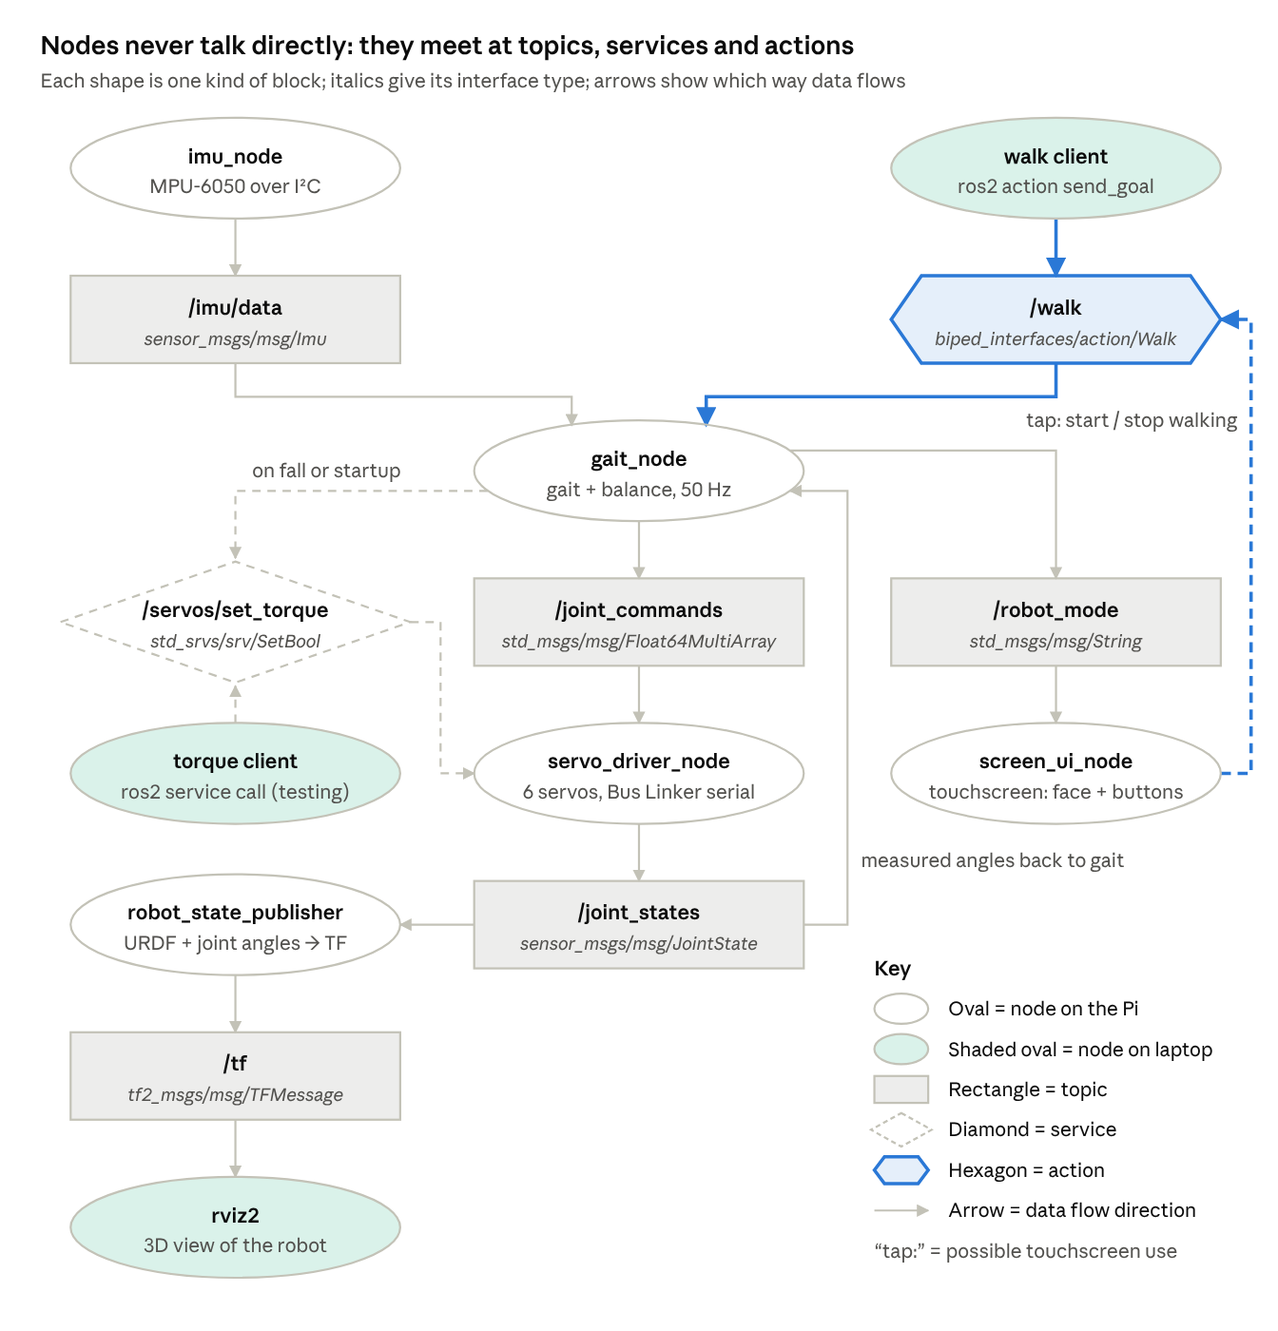
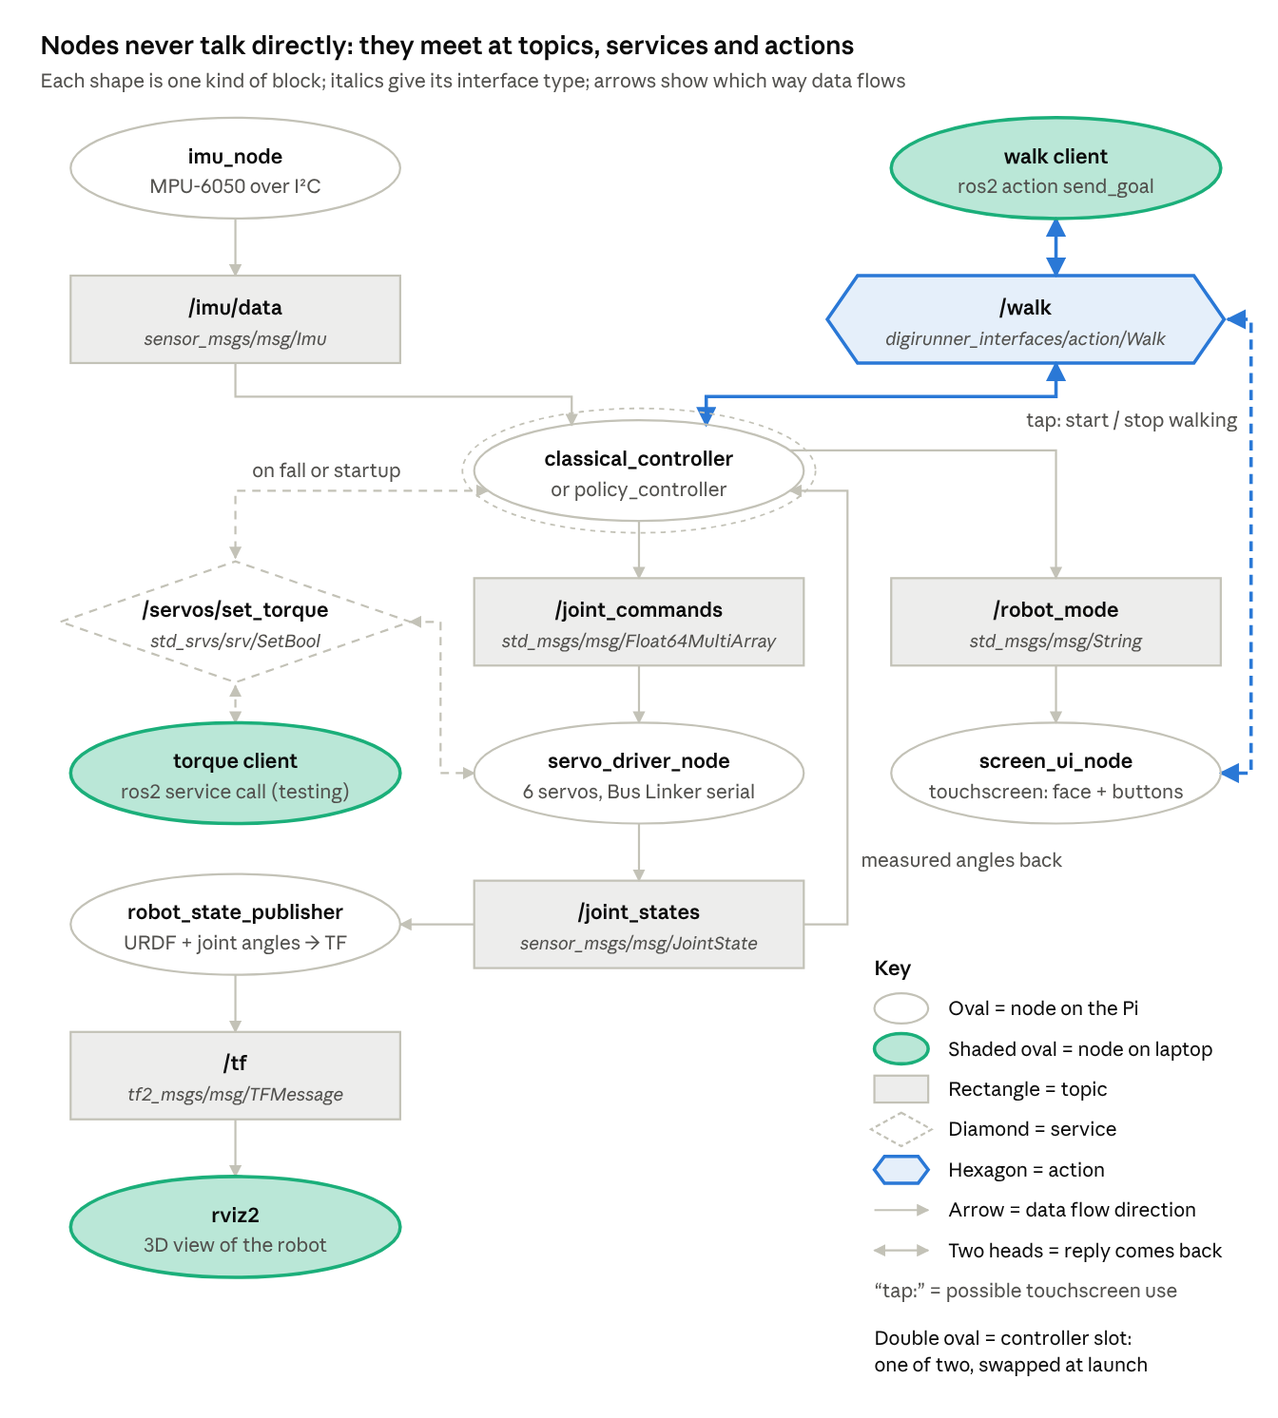
Updated Packages Layout

diff --git a/docs/ros2-concepts.md b/docs/ros2-concepts.md
@@ -1,20 +1,23 @@
-# ROS 2 Concepts for the Bipedal Robot
+# ROS 2 Concepts for Digi-Runner
 
-Nov 12, 2026
+Nov 12, 2026 · Maximilian Shah
 
 These are the ROS 2 pieces a small bipedal robot actually uses. Each entry says what it is, why it matters, and how it would be used on this robot, plus the basic `ros2` CLI commands where the CLI is the simple way in.
 
-**Hardware assumed in the examples:** Raspberry Pi 4B, bus servos driven through the Bus Linker (serial), a GY-521 (MPU-6050) IMU on I²C, and the 5" DSI screen.
+**Hardware assumed in the examples:** Raspberry Pi 4B, bus servos driven through the Bus Linker (serial), a GY-521 (MPU-6050) IMU on I²C, and the 5" Touchscreen IPS LCD Display.
 
-**Commands assume** ROS 2 Jazzy (the LTS release for Ubuntu 24.04, which runs on the Pi 4). Most also work on Humble. Names in angle brackets or under `biped_*` are placeholders for your own packages and nodes. Before any command will find your code, source the workspace with `source ~/biped_ws/install/setup.bash`.
+**Commands assume** ROS 2 Jazzy (the LTS release for Ubuntu 24.04, which runs on the Pi 4). Most also work on Humble. Names in angle brackets or under `digirunner_*` are placeholders for your own packages and nodes. Before any command will find your code, source the workspace with `source ~/ros2_ws/install/setup.bash`.
 
 ## Core building blocks
 
 Nodes talking over topics, services and actions are the skeleton of every ROS 2 robot. Everything else in this doc builds on them.
 
-![Example node graph for the robot](images/node-graph.png)
+<picture>
+  <source media="(prefers-color-scheme: dark)" srcset="images/node-graph-dark.png">
+  <img alt="Example node graph for the robot" src="images/node-graph.png">
+</picture>
 
-Ovals are nodes (shaded ones run on the laptop), rectangles are topics, the diamond is a service and the hexagon is an action. Each block holds its interface type, and arrows show which way data flows. The node and topic names are the examples used throughout this doc; `rqt_graph` draws the live version of this picture for your real system. The touchscreen only talks to /walk: its Stop button cancels the walk goal, so the robot stands still instead of collapsing. A hard e-stop (torque off) comes from a physical power switch or a ros2 service call from the laptop, so it still works if the gait node has crashed. The gait node can also cut torque itself when it detects a fall.
+Ovals are nodes (shaded ones run on the laptop), rectangles are topics, the diamond is a service and the hexagon is an action. Each block holds its interface type, and arrows show which way data flows. The node and topic names are the examples used throughout this doc; `rqt_graph` draws the live version of this picture for your real system. The touchscreen only talks to /walk: its Stop button cancels the walk goal, so the robot stands still instead of collapsing. A hard e-stop (torque off) comes from a physical power switch or a ros2 service call from the laptop, so it still works if the gait node has crashed. The gait node can also cut torque itself when it detects a fall. The double oval is the controller slot: either classical_controller or policy_controller fills it (see Packages), and the rest of this doc calls whichever one is running gait_node.
 
 ### Nodes
 
@@ -25,7 +28,7 @@ Ovals are nodes (shaded ones run on the laptop), rectangles are topics, the diam
 **Example:** `imu_node` reads the MPU-6050 over I²C. `servo_driver_node` talks to the Bus Linker over serial. `gait_node` generates walking motions, and `screen_ui_node` runs the touchscreen: it draws the face and turns taps into /walk requests, like start and stop.
 
 ```bash
-ros2 run biped_hardware imu_node      # start a node: ros2 run <package> <executable>
+ros2 run digirunner_hardware imu_node      # start a node: ros2 run <package> <executable>
 ros2 node list                        # see every running node
 ros2 node info /imu_node              # its publishers, subscribers, services, actions
 ```
@@ -78,7 +81,7 @@ ros2 interface package std_srvs              # types in one package
 ros2 interface proto sensor_msgs/msg/JointState   # a fill-in-the-blanks template for ros2 topic pub
 ```
 
-Custom interfaces aren't made from the CLI. Put them in their own CMake package (`ros2 pkg create --build-type ament_cmake biped_interfaces`), add files like `msg/ServoStatus.msg`, and list them in `rosidl_generate_interfaces(...)` in that package's `CMakeLists.txt`.
+Custom interfaces aren't made from the CLI. Put them in their own CMake package (`ros2 pkg create --build-type ament_cmake --license MIT digirunner_interfaces`), add files like `msg/ServoStatus.msg`, and list them in `rosidl_generate_interfaces(...)` in that package's `CMakeLists.txt`.
 
 ### Services
 
@@ -105,11 +108,14 @@ ros2 service call /servos/set_torque std_srvs/srv/SetBool "{data: false}"   # go
 ```bash
 ros2 action list -t
 ros2 action info /walk                        # its server and clients
-ros2 action send_goal /walk biped_interfaces/action/Walk "{steps: 10}" --feedback
+ros2 action send_goal /walk digirunner_interfaces/action/Walk "{steps: 10}" --feedback
 # Ctrl+C while a goal is running cancels it
 ```
 
-![Topic vs service vs action message timing](images/topic-service-action.png)
+<picture>
+  <source media="(prefers-color-scheme: dark)" srcset="images/topic-service-action-dark.png">
+  <img alt="Topic vs service vs action message timing" src="images/topic-service-action.png">
+</picture>
 
 Time runs downward. A service caller waits for its one reply, while an action client keeps receiving feedback until the result arrives, and can cancel along the way.
 
@@ -126,8 +132,8 @@ ros2 param list /gait_node
 ros2 param get /gait_node step_height
 ros2 param set /gait_node step_height 0.02          # change it live
 ros2 param dump /gait_node > gait_params.yaml       # save the current values to a file
-ros2 run biped_control gait_node --ros-args --params-file gait_params.yaml
-ros2 run biped_control gait_node --ros-args -p step_height:=0.02   # set one at launch
+ros2 run digirunner_control gait_node --ros-args --params-file gait_params.yaml
+ros2 run digirunner_control gait_node --ros-args -p step_height:=0.02   # set one at launch
 ```
 
 ### Timers, callbacks and executors
@@ -165,36 +171,88 @@ Your code lives in packages inside a workspace, gets built with colcon, and runs
 
 **Why:** Packages keep the project modular and let the build system resolve dependencies.
 
-**Example:** A sensible split for this robot:
+**Example:** This robot uses seven packages, split by what depends on what rather than one per node. Topics, services and actions don't get packages; only the custom interface types do.
 
-- `biped_description`: URDF and meshes
-- `biped_hardware`: servo and IMU drivers
-- `biped_control`: gait and balance
-- `biped_interfaces`: custom messages, services and actions (must be a CMake package)
-- `biped_bringup`: launch files and parameter YAMLs
+```text
+ros2_ws/src/
+├── digirunner_interfaces/   (CMake)          Walk.action, ServoStatus.msg
+├── digirunner_description/  (CMake)          URDF, SolidWorks meshes, RViz config
+├── digirunner_hardware/     (C++)            imu_node, servo_driver_node
+├── digirunner_control/      (C++)            classical_controller
+├── digirunner_policy/       (C++ or Python)  policy_controller + exported .onnx model
+├── digirunner_ui/           (Python)         screen_ui_node
+└── digirunner_bringup/      (Python)         launch files, parameter YAMLs
+```
+
+| Package | Language | Holds | Why it's separate |
+| --- | --- | --- | --- |
+| `digirunner_interfaces` | CMake (no code) | `Walk.action`, `ServoStatus.msg` | Every other package depends on it; the build generates both C++ and Python versions of each type |
+| `digirunner_description` | CMake (no code) | URDF/xacro, meshes, RViz config | The robot, the simulator and the laptop all load it; only changes when the CAD changes |
+| `digirunner_hardware` | C++ | `imu_node`, `servo_driver_node` | Byte-level serial and I²C work, close to C; only runs on the Pi; steady timing matters most here |
+| `digirunner_control` | C++ | `classical_controller` | Your hand-designed control; C++ is the industry standard for real-time control |
+| `digirunner_policy` | C++ or Python | `policy_controller`, the trained `.onnx` model | Needs a neural-net runtime (ONNX Runtime) nothing else uses |
+| `digirunner_ui` | Python | `screen_ui_node` | Needs a GUI library (pygame) nothing else uses; GUI code gains nothing from C++ |
+| `digirunner_bringup` | Python | Launch files, parameter YAMLs | Ties everything together; tuning never touches node code |
+
+**One controller slot, two controllers.** `classical_controller` and `policy_controller` follow the same contract: `/imu/data` and `/joint_states` in, `/joint_commands` out. Only one runs at a time, chosen by a launch argument, and nothing else in the system changes. That lets you compare your own control design against the learned one on the same robot.
 
 ```bash
-cd ~/biped_ws/src
-ros2 pkg create --build-type ament_python --dependencies rclpy sensor_msgs \
-    --node-name imu_node biped_hardware        # new Python package with a starter node
-ros2 pkg list                                   # installed packages
-ros2 pkg executables biped_hardware             # runnable nodes in a package
-ros2 pkg prefix biped_hardware                  # where it's installed
+ros2 launch digirunner_bringup robot.launch.py controller:=classical
+ros2 launch digirunner_bringup robot.launch.py controller:=policy
 ```
+
+**Training lives outside the workspace.** The neural net is trained in Python (PyTorch) in a simulator such as MuJoCo, usually over millions of attempts, then exported to ONNX and copied into `digirunner_policy`. Accurate masses and inertias from the SolidWorks export make the simulated robot match the real one, so the policy transfers better.
+
+**Nodes you don't write.** `robot_state_publisher`, `rviz2` and the `ros2` CLI come with ROS (`sudo apt install ros-jazzy-robot-state-publisher`). List them as dependencies in `digirunner_bringup/package.xml`; they don't live in your workspace.
+
+**What goes where.** The Pi builds every package. The laptop only needs `digirunner_interfaces`, `digirunner_description` and `digirunner_bringup` (RViz needs the model, and the CLI needs the `Walk` type), plus the training code.
+
+**License.** Every package uses the **MIT** license: a `LICENSE` file at the repo root, and `<license>MIT</license>` in each `package.xml` (the `--license MIT` flag below fills that in). Using one license everywhere means there's never a question about what applies where.
+
+```bash
+cd ~/ros2_ws/src
+ros2 pkg create digirunner_interfaces --build-type ament_cmake --license MIT --dependencies std_msgs action_msgs
+ros2 pkg create digirunner_description --build-type ament_cmake --license MIT
+ros2 pkg create digirunner_hardware --build-type ament_cmake --license MIT --dependencies rclcpp rclcpp_lifecycle sensor_msgs std_msgs std_srvs digirunner_interfaces
+ros2 pkg create digirunner_control --build-type ament_cmake --license MIT --dependencies rclcpp rclcpp_action sensor_msgs std_msgs std_srvs digirunner_interfaces
+ros2 pkg create digirunner_policy --build-type ament_cmake --license MIT --dependencies rclcpp rclcpp_action sensor_msgs std_msgs std_srvs digirunner_interfaces
+ros2 pkg create digirunner_ui --build-type ament_python --license MIT --dependencies rclpy std_msgs digirunner_interfaces
+ros2 pkg create digirunner_bringup --build-type ament_python --license MIT --dependencies launch launch_ros robot_state_publisher xacro
+cd .. && colcon build --symlink-install       # builds digirunner_interfaces first automatically
+source install/setup.bash                      # makes the new packages visible in this terminal
+ros2 pkg list | grep digirunner                # check all seven are found
+ros2 pkg executables digirunner_hardware       # runnable nodes in a package (empty until you add nodes)
+```
+
+**Why these dependencies.** Each one is there because the package's nodes use something from it:
+
+| Dependency | Provides | Needed by |
+| --- | --- | --- |
+| `rclcpp` / `rclpy` | ROS client library for C++ / Python: nodes, publishers, subscribers, timers, parameters | Every package with nodes |
+| `rclcpp_action` | Action servers and clients in C++ (Python's `rclpy` includes them) | Both controllers, which serve `/walk` |
+| `rclcpp_lifecycle` | Lifecycle (managed) nodes in C++ | Hardware, if the servo driver is a lifecycle node; drop it otherwise |
+| `sensor_msgs` | `Imu`, `JointState` | Hardware (publishes both), controllers (subscribe to both) |
+| `std_msgs` | `Float64MultiArray` (`/joint_commands`), `String` (`/robot_mode`), `Header` | Hardware, controllers, UI, interfaces |
+| `std_srvs` | `SetBool` (`/servos/set_torque`) | Hardware (serves it), controllers (call it on a fall) |
+| `action_msgs` | Building blocks every action definition needs | Interfaces |
+| `digirunner_interfaces` | Your `Walk` action and `ServoStatus` message | Hardware, controllers, UI |
+| `launch`, `launch_ros`, `robot_state_publisher`, `xacro` | What the launch files start and use | Bringup |
+
+`digirunner_interfaces` also needs two lines added to its `package.xml` by hand, because `ros2 pkg create` can't add them: `<buildtool_depend>rosidl_default_generators</buildtool_depend>` and `<member_of_group>rosidl_interface_packages</member_of_group>`. `rviz2` is left out of bringup on purpose, so the Pi doesn't have to install it. `--dependencies` only pre-fills `package.xml` (and `CMakeLists.txt` for C++), so you can add more later by editing those files. Put the package name right after `create`: `--dependencies` takes every word after it as a dependency, so a name at the end gets swallowed and the command fails with "the following arguments are required: package_name".
 
 ### Workspace and colcon
 
-**What:** The workspace (`~/biped_ws/src/...`) holds your packages. `colcon build` compiles all of them, and sourcing `install/setup.bash` makes them available in your terminal.
+**What:** The workspace (`~/ros2_ws/src/...`) holds your packages. `colcon build` compiles all of them, and sourcing `install/setup.bash` makes them available in your terminal.
 
 **Why:** It's the standard build-and-run workflow.
 
 **Example:** After editing the gait node, rebuild only that package and relaunch.
 
 ```bash
-mkdir -p ~/biped_ws/src && cd ~/biped_ws
+mkdir -p ~/ros2_ws/src && cd ~/ros2_ws
 rosdep install --from-paths src --ignore-src -y     # install dependencies listed in package.xml files
 colcon build --symlink-install                      # build all (Python edits apply without rebuilding)
-colcon build --packages-select biped_control        # build one package
+colcon build --packages-select digirunner_control        # build one package
 source install/setup.bash                           # needed in every new terminal
 ```
 
@@ -209,9 +267,9 @@ Add the `source` line to `~/.bashrc` on the Pi so you don't forget it.
 **Example:** `robot.launch.py` starts the IMU, servo driver, robot_state_publisher, gait and screen UI nodes, loading `gait_params.yaml`. A second `sim.launch.py` starts the simulated version instead.
 
 ```bash
-ros2 launch biped_bringup robot.launch.py
-ros2 launch biped_bringup robot.launch.py --show-args     # list the arguments it accepts
-ros2 launch biped_bringup robot.launch.py use_sim:=true   # pass an argument
+ros2 launch digirunner_bringup robot.launch.py
+ros2 launch digirunner_bringup robot.launch.py --show-args     # list the arguments it accepts
+ros2 launch digirunner_bringup robot.launch.py use_sim:=true   # pass an argument
 ```
 
 Launch files themselves are written in a text editor and placed in the package's `launch/` folder (and installed through `setup.py` or `CMakeLists.txt`).
@@ -225,10 +283,10 @@ Launch files themselves are written in a text editor and placed in the package's
 **Example:** Run the same leg-controller node twice, once as `/left_leg` and once as `/right_leg`.
 
 ```bash
-ros2 run biped_control leg_controller --ros-args -r __ns:=/left_leg
-ros2 run biped_control leg_controller --ros-args -r __ns:=/right_leg
+ros2 run digirunner_control leg_controller --ros-args -r __ns:=/left_leg
+ros2 run digirunner_control leg_controller --ros-args -r __ns:=/right_leg
 # rename one topic, or the node itself
-ros2 run biped_hardware imu_node --ros-args -r imu/data:=/body/imu -r __node:=body_imu
+ros2 run digirunner_hardware imu_node --ros-args -r imu/data:=/body/imu -r __node:=body_imu
 ```
 
 ## Robot model and geometry
@@ -244,9 +302,9 @@ The URDF is the bridge from the SolidWorks assembly to ROS. Visualization, kinem
 **Example:** Export it from the SolidWorks assembly with the community `sw_urdf_exporter` add-in. It officially targets older SolidWorks versions, so check it with yours. It pulls masses and inertias from your material settings. Because the legs mirror each other, Xacro lets you define one leg and instantiate it for left and right. The passive ankle becomes a revolute joint with ±10° limits.
 
 ```bash
-xacro biped.urdf.xacro > biped.urdf        # expand xacro into plain URDF
-check_urdf biped.urdf                      # parse it and print the link tree (liburdfdom-tools)
-ros2 launch urdf_tutorial display.launch.py model:=$PWD/biped.urdf   # quick look in RViz with sliders
+xacro digirunner.urdf.xacro > digirunner.urdf        # expand xacro into plain URDF
+check_urdf digirunner.urdf                      # parse it and print the link tree (liburdfdom-tools)
+ros2 launch urdf_tutorial display.launch.py model:=$PWD/digirunner.urdf   # quick look in RViz with sliders
 ```
 
 ### TF2 (transforms)
@@ -257,7 +315,10 @@ ros2 launch urdf_tutorial display.launch.py model:=$PWD/biped.urdf   # quick loo
 
 **Example:** Look up `left_foot` relative to `base_link` to check the center of mass is over the support foot. The IMU's position in the floor tray gives the fixed `base_link` → `imu_link` transform.
 
-![TF frame tree from base_link down to each foot](images/tf-tree.png)
+<picture>
+  <source media="(prefers-color-scheme: dark)" srcset="images/tf-tree-dark.png">
+  <img alt="TF frame tree from base_link down to each foot" src="images/tf-tree.png">
+</picture>
 
 `tf2_echo base_link left_foot` walks this tree for you, combining every joint angle along the left leg into one transform.
 
@@ -281,7 +342,7 @@ The `imu_link` numbers above are placeholders. Measure them from the IMU pocket'
 
 ```bash
 ros2 run robot_state_publisher robot_state_publisher \
-    --ros-args -p robot_description:="$(xacro biped.urdf.xacro)"
+    --ros-args -p robot_description:="$(xacro digirunner.urdf.xacro)"
 ros2 run joint_state_publisher_gui joint_state_publisher_gui
 rviz2                                   # add RobotModel and TF displays, Fixed Frame = base_link
 ```
@@ -316,7 +377,10 @@ The simpler alternative: a Python `servo_driver_node` that subscribes to `/joint
 
 **Example:** The servo driver only enables torque once it's activated, after the IMU node reports it's ready. That keeps the robot from twitching on power-up.
 
-![Lifecycle states for the servo driver](images/lifecycle.png)
+<picture>
+  <source media="(prefers-color-scheme: dark)" srcset="images/lifecycle-dark.png">
+  <img alt="Lifecycle states for the servo driver" src="images/lifecycle.png">
+</picture>
 
 Each arrow is one `ros2 lifecycle set` command. Deactivating drops back to Inactive, so the robot goes limp without the node exiting.
 
@@ -358,7 +422,7 @@ ros2 bag play walk_test_01 --rate 0.25 --loop   # quarter speed, repeating
 
 ```bash
 rviz2                                    # set up displays, then File > Save Config
-rviz2 -d ~/biped_ws/src/biped_bringup/config/biped.rviz   # reopen a saved layout
+rviz2 -d ~/ros2_ws/src/digirunner_bringup/config/digirunner.rviz   # reopen a saved layout
 ```
 
 ### Gazebo (simulation)
@@ -371,7 +435,7 @@ rviz2 -d ~/biped_ws/src/biped_bringup/config/biped.rviz   # reopen a saved layou
 
 ```bash
 ros2 launch ros_gz_sim gz_sim.launch.py gz_args:=empty.sdf        # start an empty world
-ros2 run ros_gz_sim create -topic robot_description -name biped   # spawn the robot (needs robot_state_publisher running)
+ros2 run ros_gz_sim create -topic robot_description -name digirunner   # spawn the robot (needs robot_state_publisher running)
 ```
 
 Sensors and controllers inside Gazebo connect to ROS through `ros_gz_bridge` and `gz_ros2_control`. Those are set up in launch files rather than typed by hand.
@@ -481,7 +545,7 @@ If you later want separate nodes without separate processes, ROS 2 **component c
 ### Topic design
 
 - **Use a standard message type when one fits.** RViz, PlotJuggler and other people's code already understand `sensor_msgs/msg/Imu` and `sensor_msgs/msg/JointState`.
-- **Use SI units everywhere:** metres, radians, seconds. The HTD-35H speaks 0–1000 for 0–240°; convert at the servo driver and nowhere else, so the rest of the system only sees radians.
+- **Use SI units everywhere:** meters, radians, seconds. The HTD-35H speaks 0–1000 for 0–240°; convert at the servo driver and nowhere else, so the rest of the system only sees radians.
 - **Fill in the header.** Set `header.stamp` (when the data was measured) and `header.frame_id` (e.g. `imu_link`) so TF and bag replay can use it.
 - **One meaning per topic.** Don't send "walk speed" and "mode" on the same topic; give each its own.
 - **Write topic names without a leading slash in code** (`imu/data`, not `/imu/data`), so namespaces and remapping work. Use lowercase snake_case.
@@ -508,7 +572,7 @@ If a subscriber gets nothing from a topic that is clearly publishing, check QoS 
 
 - **Make it a parameter** if you'll tune it, or if it differs between the real robot and simulation: gains, step sizes, rates, servo offsets, serial port.
 - **Hard-code it** if it's a fact of physics or the protocol: packet headers, the servo's 0–1000 range.
-- **Keep parameter YAML files in `biped_bringup/config`** under version control, so you can see what changed between a good walk and a bad one.
+- **Keep parameter YAML files in `digirunner_bringup/config`** under version control, so you can see what changed between a good walk and a bad one.
 
 ### Frames and TF
 
@@ -526,14 +590,3 @@ If a subscriber gets nothing from a topic that is clearly publishing, check QoS 
 
 - **Record a bag on every hardware test** and name it by date or test number. Most bugs are found by replaying the failure, not by watching it live.
 - **Test new code with torque off, or the robot hanging in the air,** before letting it stand.
-
-## Suggested first milestone
-
-Get the model and one leg working end to end before writing any gait code.
-
-1. **Export the URDF from SolidWorks** and check it: `check_urdf biped.urdf`.
-2. **View it with sliders** and confirm every joint axis and limit: `ros2 launch urdf_tutorial display.launch.py model:=$PWD/biped.urdf`.
-3. **Write the servo driver node** and move one real leg by hand: `ros2 topic pub --once /joint_commands ...`.
-4. **Write the IMU node** and confirm its rate: `ros2 topic hz /imu/data`.
-5. **Put it all in one launch file**: `ros2 launch biped_bringup robot.launch.py`.
-6. **Bag-record a standing test** and replay it in RViz or PlotJuggler: `ros2 bag record -o stand_01 /imu/data /joint_states`.
